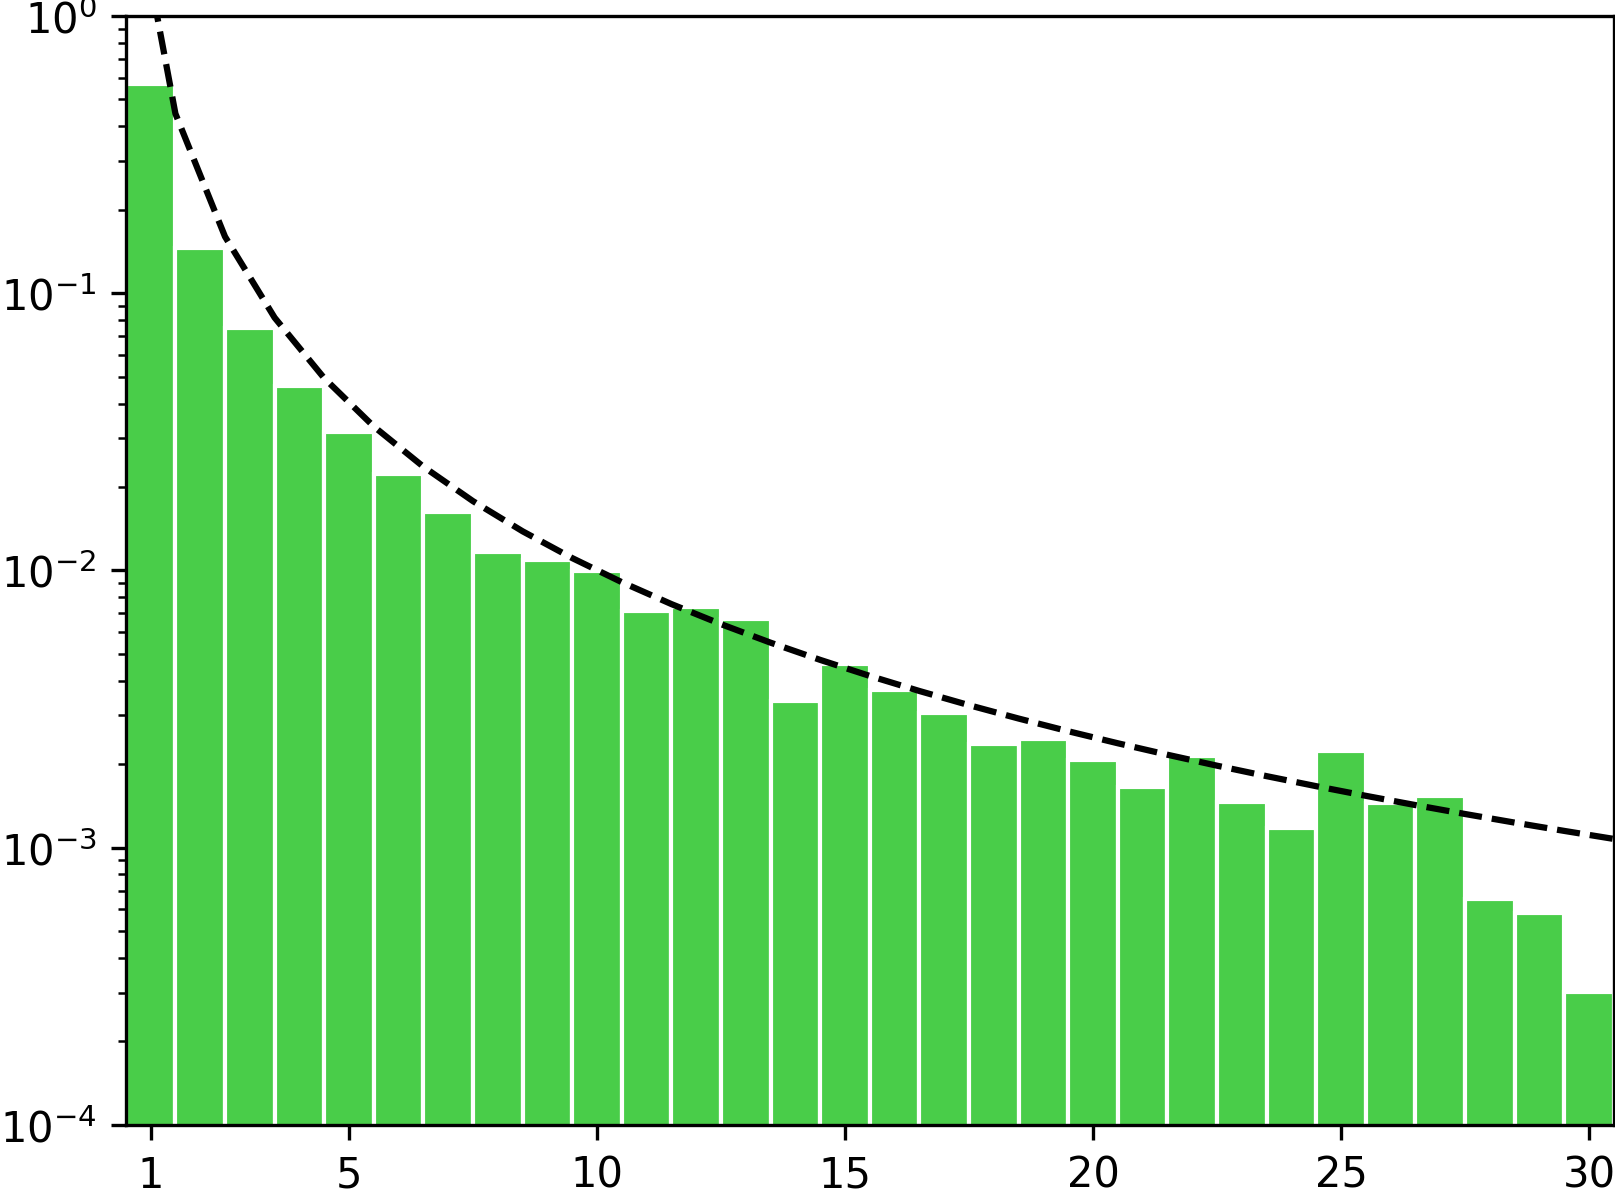
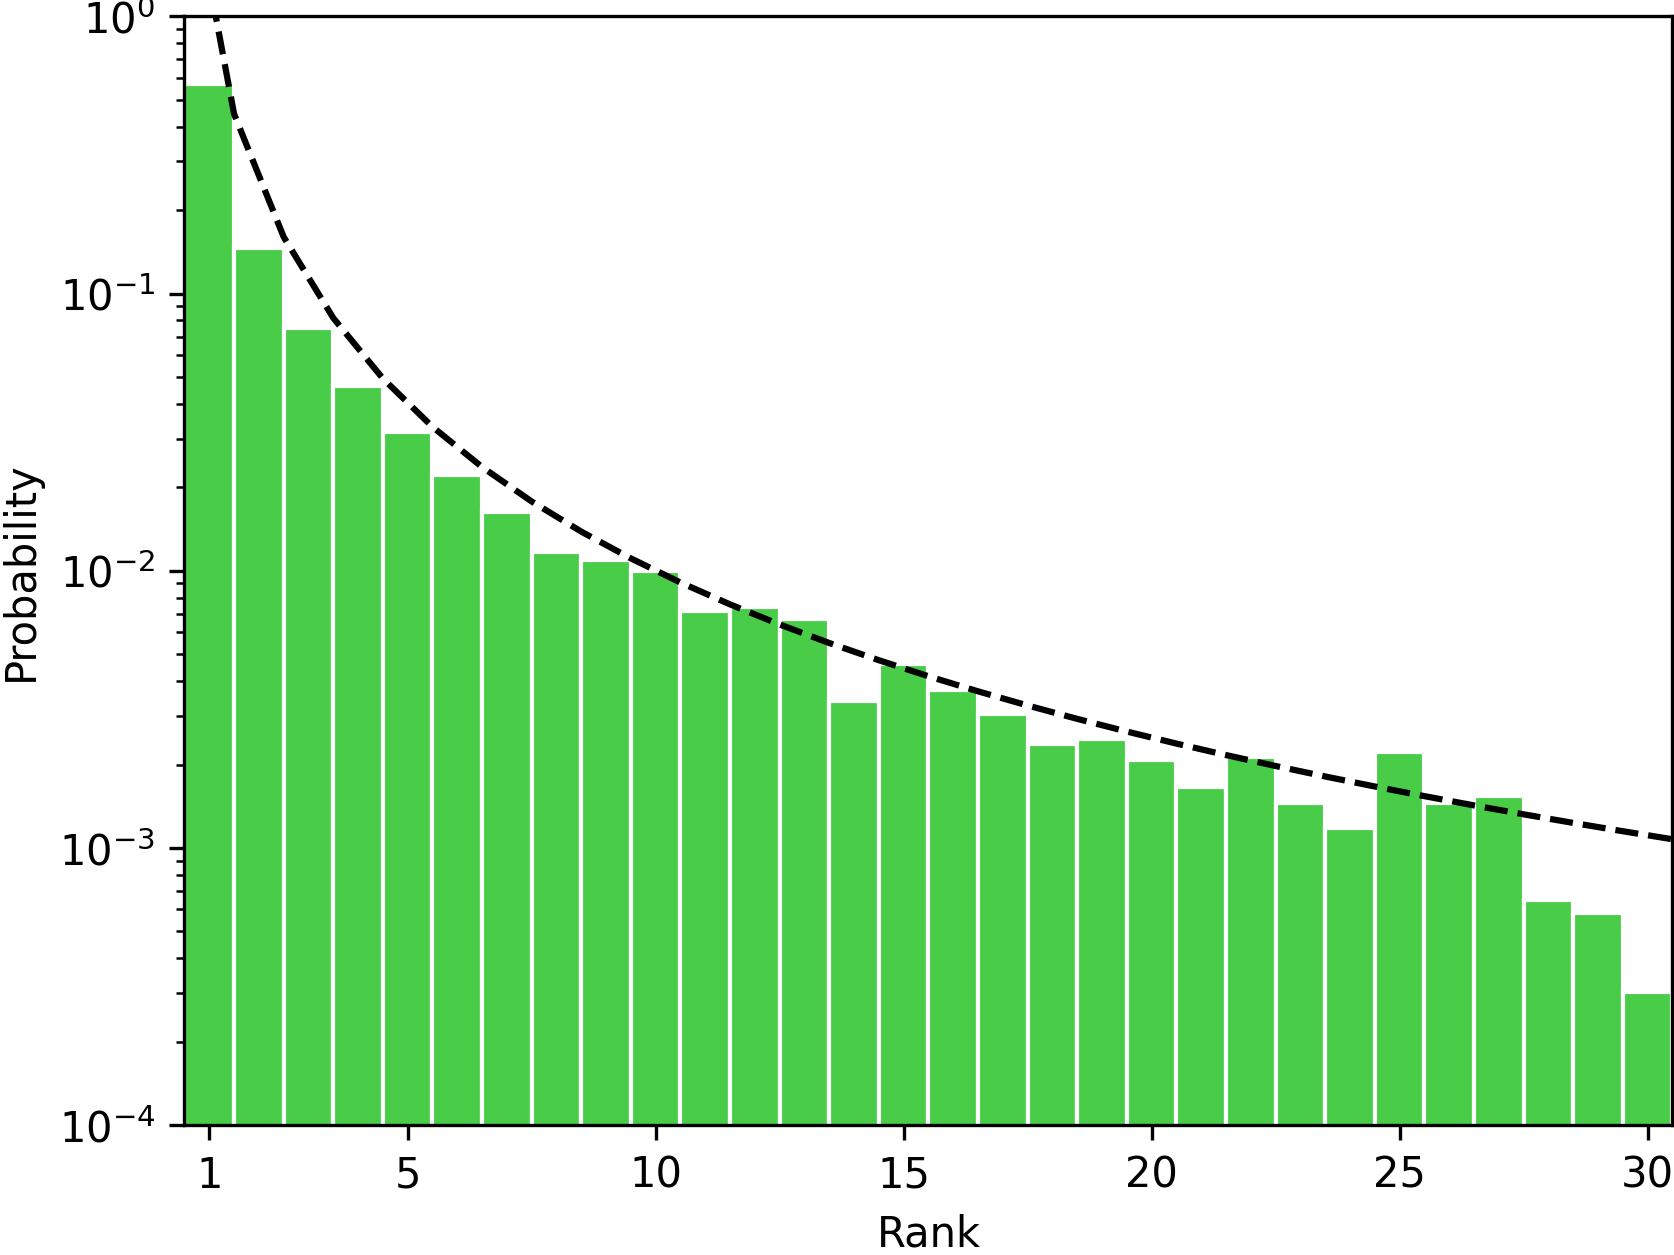
Fix and improve scripts n_gram directory, improve Compressor and Huffman memoization

Changed region(s): [[0.0, 0.0, 1.0, 1.0]]

diff --git a/Code/libraries/predictors.py b/Code/libraries/predictors.py
@@ -5,6 +5,7 @@ os.environ['TF_CPP_MIN_LOG_LEVEL'] = '1'
 # Full solution is here: https://technofob.com/2019/06/14/how-to-compile-tensorflow-2-0-with-avx2-fma-instructions-on-mac/
 
 from   collections   import Counter
+from   random        import random
 from   bitarray      import bitarray
 from   abc           import ABC, abstractmethod
 from   codes         import Huffman, Arithmetic
@@ -13,7 +14,7 @@ import numpy         as np
 from   tensorflow.keras.models import Sequential
 from   tensorflow.keras.layers import LSTM, Input, Dense, Dropout
 from   tensorflow.keras.utils  import to_categorical
-import json, random
+import json
 
 
 #############################################################
@@ -28,7 +29,7 @@ class Predictor(ABC):
   def train(self, text): pass
   
   @abstractmethod
-  def frequencies_given_context(self, context, memoize=True): pass
+  def frequencies_given_context(self, context, memoize=0): pass
   
   def surprisal(self, data, context=None):
     symbols       = []
@@ -78,7 +79,7 @@ class NGramPredictor(Predictor):
     self.byte_counts = Counter(text)
     self.byte_counts.update(bytes(range(256)))
   
-  def frequencies_given_context(self, context, memoize=True):
+  def frequencies_given_context(self, context, memoize=0):
     return self.completions[context] if context in self.completions else self.byte_counts
 
 
@@ -120,7 +121,7 @@ class LSTMPredictor(Predictor):
 
     self.model.fit(X, y, epochs=1, batch_size=2048)
   
-  def frequencies_given_context(self, context, memoize=True):
+  def frequencies_given_context(self, context, memoize=0):
     if context in self.completions:
       return self.completions[context]
     if len(context)!=self.window:
@@ -128,7 +129,7 @@ class LSTMPredictor(Predictor):
     x = np.reshape([b for b in context], (1, self.window, 1)) / 255.0
     prediction = self.model.predict(x, verbose=0).flatten()
     frequencies = {i: prob+1e-8 for i, prob in enumerate(prediction)}
-    if memoize: self.completions[context] = frequencies
+    if random() < memoize: self.completions[context] = frequencies
     return frequencies
 
   def save(self, filename):
@@ -162,31 +163,31 @@ class Compressor:
     self.Code = Code
     self.cached_codes = {}
   
-  def contextual_code(self, context, memoize=True):
+  def contextual_code(self, context, memoize=0):
     if context in self.cached_codes:
       code = self.cached_codes[context]
     else:
       symbol_probabilities = self.predictor.frequencies_given_context(context)
       code = self.Code(symbol_probabilities)
-      if memoize: self.cached_codes[context] = code
+      if random() < memoize: self.cached_codes[context] = code
     return code
 
-  def encode_symbol(self, context, symbol, memoize=True):
+  def encode_symbol(self, context, symbol, memoize=0):
     code = self.contextual_code(context, memoize)
     return code.encode(symbol)
 
-  def decode_symbol(self, context, bitarr, index, memoize=True):
+  def decode_symbol(self, context, bitarr, index, memoize=0):
     code = self.contextual_code(context, memoize)
     return code.decode(bitarr, index)
   
-  def encode(self, text, context=None):
+  def encode(self, text, context=None, memoize=0):
     out = bitarray()
     for index in range(len(text)):
       context = self.predictor.context(text, index, context)
-      out.extend(self.encode_symbol(context, text[index]))
+      out.extend(self.encode_symbol(context, text[index], memoize))
     return out.tobytes() + (len(out)%8).to_bytes()
     
-  def decode(self, encoded_text, context=None):
+  def decode(self, encoded_text, context=None, memoize=0):
     encoded_text_len_mod_8 = encoded_text[-1]
     encoded_bits = bitarray()
     encoded_bits.frombytes(encoded_text)
@@ -195,7 +196,7 @@ class Compressor:
     index = 0
     while index < len(encoded_bits):
       context = self.predictor.context(out, len(out))
-      symbol, new_index = self.decode_symbol(context, encoded_bits, index)
+      symbol, new_index = self.decode_symbol(context, encoded_bits, index, memoize)
       if symbol is None: break
       out.append(symbol)
       index = new_index

diff --git a/Code/n_gram/predictor_tester.py b/Code/n_gram/predictor_tester.py
@@ -1,13 +1,17 @@
+import sys
+sys.path.insert(0, '../libraries')
+
 import pandas      as     pd
 from   random      import randbytes
 from   codes       import Huffman, Arithmetic
 from   predictors  import Predictor, NGramPredictor, Compressor
+import time
 
 #############################################################
 
-# Setting up a predictor trained on War and peace
+# Setting up a Predictor trained on War and Peace and the corresponding Compressor
 
-war_and_peace_text       = open('../../../Data/books/pg2600.txt','rb+').read()
+war_and_peace_text       = open('../../Data/books/pg2600.txt','rb+').read()
 war_and_peace_predictor  = NGramPredictor(war_and_peace_text, window=6)
 war_and_peace_compressor = Compressor(predictor = war_and_peace_predictor, Code = Arithmetic)
 
@@ -45,25 +49,24 @@ chosen_books = {
     "pg2600.txt": "War and Peace",
 }
 
-text_fnames        = list(chosen_books.keys())
-book_titles        = list(chosen_books.values())
-compression_ratios = []
+WP_performance  = pd.DataFrame()
 
-huffman_compressor    = Compressor(predictor = war_and_peace_predictor, Code = Huffman)
-arithmetic_compressor = war_and_peace_compressor
+compressors = [Compressor(predictor = war_and_peace_predictor, Code = Arithmetic),
+               Compressor(predictor = war_and_peace_predictor, Code = Huffman)]
 
-for text_fname in text_fnames:
-  current_text                 = open('../../../Data/books/'+text_fname,'rb+').read()
+while compressors:
+
+  compressor = compressors.pop()
+
+  for text_fname, text_title in chosen_books.items():
   
-  huffman_compressed_text      = huffman_compressor.encode(current_text)
-  huffman_compression_ratio    = len(current_text) / len(huffman_compressed_text)
-  
-  arithmetic_compressed_text   = arithmetic_compressor.encode(current_text)
-  arithmetic_compression_ratio = len(current_text) / len(arithmetic_compressed_text)
-  
-  compression_ratios.append([huffman_compression_ratio, arithmetic_compression_ratio])
+    current_text         = open('../../Data/books/'+text_fname,'rb+').read()
+    compressed_text      = compressor.encode(current_text, memoize=0.5)
+    compression_ratio    = len(current_text) / len(compressed_text)
+      
+    WP_performance.at[text_title, f'{compressor.Code.name} compression size'] = compression_ratio
+    
+  del compressor
 
-columns        = ['Huffman compression size', 'Arithmetic compression size']
-WP_performance = pd.DataFrame(columns = columns, index = book_titles, data = compression_ratios)
-
+print()
 print(WP_performance)

diff --git a/Code/libraries/codes.py b/Code/libraries/codes.py
@@ -34,9 +34,16 @@ class Code(ABC):
 # function as this implementation runs faster
 
 class Huffman(Code):
+
+  name = 'Huffman'
   
   def __init__(self, probability_dict):
-    pairs = [(probability,random(),symbol) for (symbol,probability) in probability_dict.items()]
+    self.probability_dict = probability_dict
+    self.tree             = None
+    self.symbol_encoding  = None
+  
+  def build_tree(self):
+    pairs = [(probability,random(),symbol) for (symbol,probability) in self.probability_dict.items()]
     heapify(pairs)
     while len(pairs) > 1:
       probability1, _, symbol1 = heappop(pairs)
@@ -44,7 +51,12 @@ class Huffman(Code):
       new_pair = (probability1 + probability2, random(), {0:symbol1, 1:symbol2})
       heappush(pairs, new_pair)
     self.tree = pairs[0][2]
+  
+  def build_symbol_encoding(self):
+    tree_exists = self.tree
+    if not tree_exists: self.build_tree()
     self.symbol_encoding = Huffman._reverse_lookup(self.tree)
+    if not tree_exists: self.tree = None
    
   @staticmethod
   def _reverse_lookup(tree, prefix=None):
@@ -59,9 +71,11 @@ class Huffman(Code):
     return reverse_lookup_table
   
   def encode(self, symbol):
+    if not self.symbol_encoding: self.build_symbol_encoding()
     return self.symbol_encoding[symbol]
   
   def decode(self, bitarr, index):
+    if not self.tree: self.build_tree()
     entry = self.tree
     while type(entry) == dict and index<len(bitarr):
       entry = entry[bitarr[index]]
@@ -74,6 +88,8 @@ class Huffman(Code):
 #############################################################
 
 class Arithmetic(Code):
+  
+  name = 'Arithmetic'
   
   def __init__(self, probability_dict):
     total = sum(probability_dict.values())

diff --git a/Code/n_gram/visualize-predictor-surprisal.py b/Code/n_gram/visualize-predictor-surprisal.py
@@ -1,3 +1,6 @@
+import sys
+sys.path.insert(0, '../libraries')
+
 import matplotlib.pyplot as     plt
 import numpy             as     np
 import pandas            as     pd
@@ -6,7 +9,7 @@ from   predictors        import Predictor, NGramPredictor, Compressor
 from   collections       import Counter
 
 
-war_and_peace = open('../../../Data/books/pg2600.txt','rb').read()
+war_and_peace = open('../../Data/books/pg2600.txt','rb').read()
 war_and_peace_predictor = NGramPredictor(war_and_peace, window=6)
 
 sherlock_text   = b'To Sherlock Holmes she is always the woman. I have seldom heard him mention her under any other name. In his eyes she eclipses and predominates the whole of her sex. It was not that he felt any emotion akin to love for Irene Adler.'
@@ -58,7 +61,7 @@ plt.close()
 #############################################################
 
 
-full_sherlock = open('../../../Data/books/pg1661.txt','rb').read()
+full_sherlock = open('../../Data/books/pg1661.txt','rb').read()
 
 symbols, probabilities, ranks = war_and_peace_predictor.surprisal(full_sherlock)
 rank_frequencies   = Counter(ranks)
@@ -82,4 +85,6 @@ plt.xlim((0.5,highest_shown_rank+0.5))
 plt.xticks([1,5,10,15,20,25,30])
 plt.ylim((0.0001,1))
 plt.yscale('log')
+plt.xlabel('Rank')
+plt.ylabel('Probability')
 plt.savefig('predictor_surprisal_histogram.png', dpi=300, bbox_inches='tight', pad_inches=0)

diff --git a/Code/n_gram/marginal_entropy.py b/Code/n_gram/marginal_entropy.py
@@ -7,7 +7,7 @@ from   statistics  import median
 
 
 def entropy(symbol_frequencies):
-  return sum(freq*log(freq,2) for freq in symbol_frequencies.values())
+  return -sum(freq*log(freq,2) for freq in symbol_frequencies.values())
 
 
 @cache
@@ -15,7 +15,7 @@ def n_gram_entropy(text, n):
   symbol_counts = Counter(text[i:i+n] for i in range(len(text)-n+1))
   total_count = symbol_counts.total()
   symbol_frequencies = {symbol: count/total_count for symbol,count in symbol_counts.items()}
-  return -entropy(symbol_frequencies)
+  return entropy(symbol_frequencies)
 
 
 @cache
